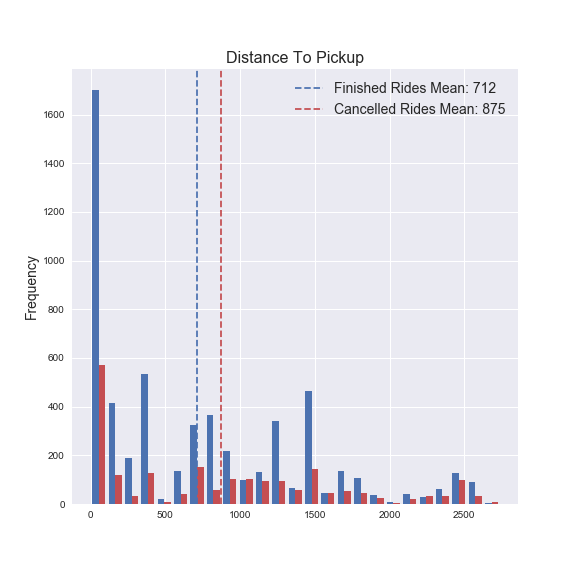
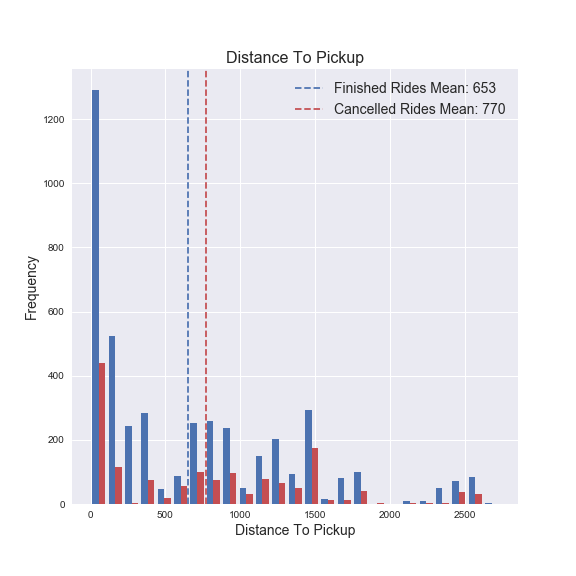
Worked on README

diff --git a/EDA/EDA.py b/EDA/EDA.py
@@ -36,13 +36,15 @@ def plot_comparison(df, col):
     Plot comparison between cancelled and not cancelled for a given column
     """
     mask = df["cancelled"] == 1
+    title = col.title().replace("_", " ")
     finished = df[col][~mask].mean()
     cancelled = df[col][mask].mean()
     fig, ax = plt.subplots(figsize=(8, 8))
     ax.hist([df[col][~mask], df[col][mask]], color=["b", "r"], bins=25)
     ax.axvline(finished, linestyle='dashed', label="Finished Rides Mean: {:,.0f}".format(finished))
     ax.axvline(cancelled, color="r", linestyle='dashed', label="Cancelled Rides Mean: {:,.0f}".format(cancelled))
-    ax.set_title(col.title().replace("_", " "), fontsize=16)
+    ax.set_title(title, fontsize=16)
+    ax.set_xlabel(title, fontsize=14)
     ax.set_ylabel("Frequency", fontsize=14)
     ax.legend(fontsize=14)
     fig.savefig("../images/{}.png".format(col))

diff --git a/README.md b/README.md
@@ -1,1 +1,19 @@
 # Silvercar Cancellation Predictor
+
+## Background and Motivation
+
+Silvercar is a startup rental car company that aims to take the pain out of the car rental process.
+One way they accomplish this goal is by offering users flexibility with their reservations. Users aren't
+charged for cancellations and no-shows, and they don't have to enter credit card information or create
+a Silvercar account to make reservations. This policy is great for customers, but it creates a business problem
+for the company because roughly 41% of their reservations aren't completed.
+
+## Objective
+
+I set out to create a model that could predict which reservations will be cancelled to help Silvercar:
+- Better manage their fleet of cars (less cars sitting around unused)
+- Improve short-term revenue forecasting
+- Potentially identify opportunities to prevent cancellations
+
+
+
